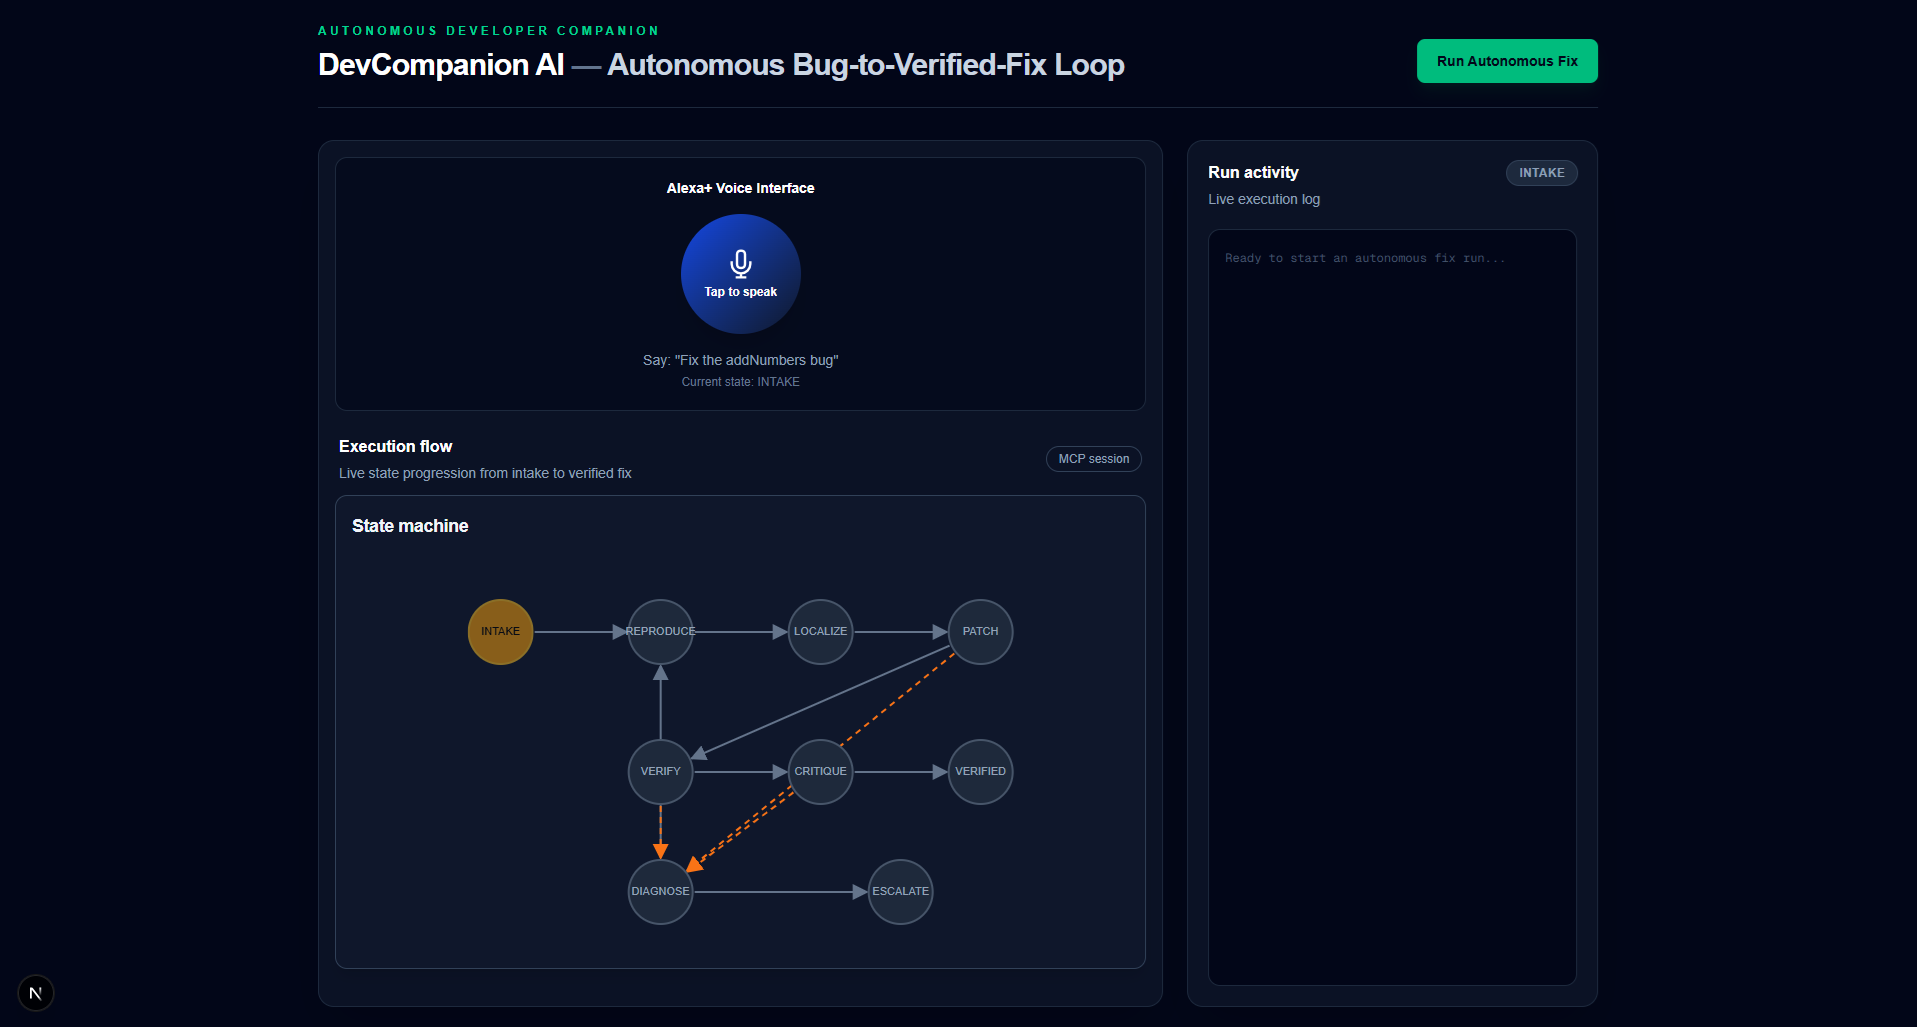
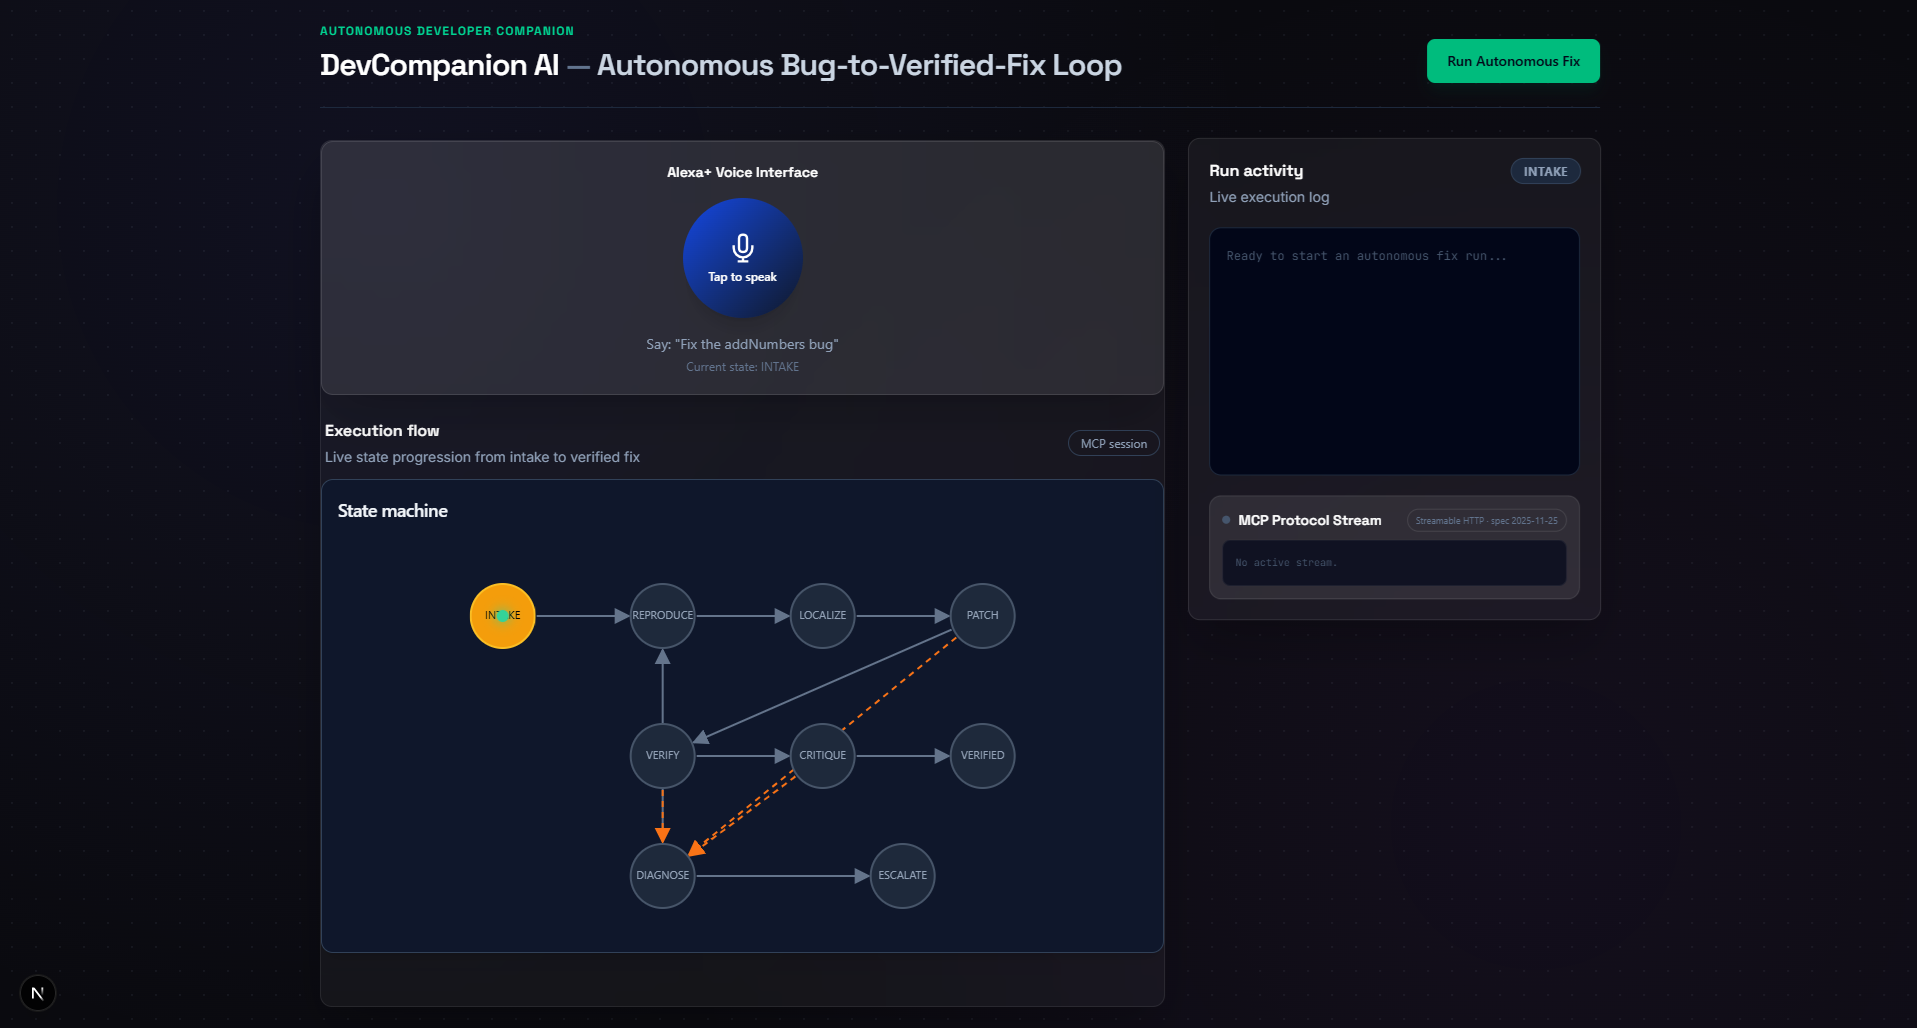
Update README with new features and post-polish screenshots

diff --git a/README.md b/README.md
@@ -49,8 +49,11 @@ Execution Plane (sandbox tools) ─► Observability Plane (audit log)
 ### Before/After Diff — Real Disk Change
 ![Diff viewer showing the fix](docs/diff.png)
 
-### Metrics & Audit Timeline — Every Transition Logged
-![Audit timeline with timestamps](docs/metrics-audit.png)
+### Time-Travel Scrubber & MCP Protocol Stream
+![Scrubber and protocol stream](docs/scrubber.png)
+
+### Success Pulse — Autonomous Fix Verified
+![Success pulse animation](docs/success-pulse.png)
 
 ---
 
@@ -106,6 +109,18 @@ The server uses **Streamable HTTP** for MCP communication.
 | `run_tests` | Runs a supplied test or verification command in an optional working directory. |
 | `apply_patch` | Replaces matching source content with the proposed fix. |
 | `run_autonomous_fix` | Runs the complete bug-to-verified-fix loop and streams live state progress. |
+
+## Key Features
+
+- **Deterministic 9-state XState FSM** — The LLM proposes, the state machine disposes.
+- **Self-hosted MCP server** — Streamable HTTP transport, spec 2025-11-25.
+- **Real disk-level code modification** — Agent reads, patches, verifies files on disk.
+- **Event-sourced audit log** — Every transition recorded with millisecond timestamps.
+- **Time-Travel Replay Scrubber** — Drag through any past run, second-by-second.
+- **Live MCP Protocol Stream** — Watch raw JSON-RPC messages flow in real time.
+- **Alexa+ Voice Interface** — Web Speech API for voice commands and narration.
+- **Success Pulse Animation** — Cinematic visual confirmation on verified fixes.
+- **Cloud deployment** — Vercel (dashboard) + Railway (MCP server) with graceful fallback.
 
 ## How It Works
 
